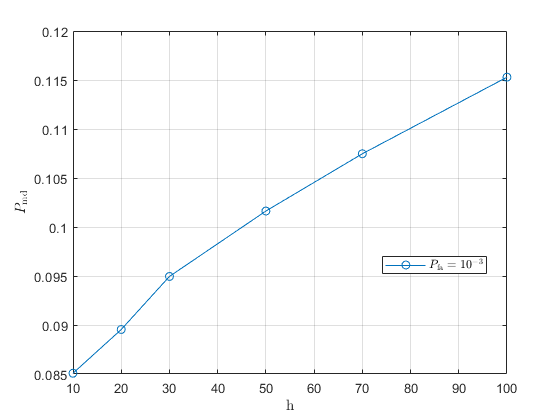
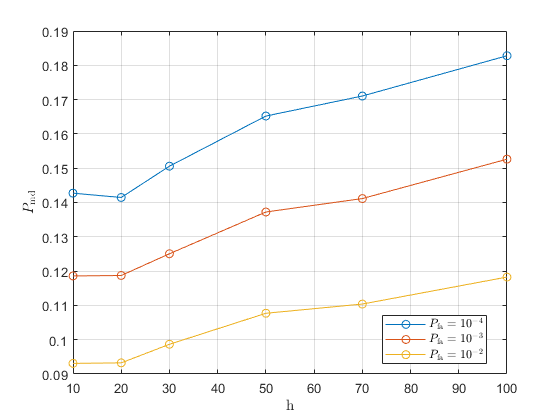
update

diff --git a/game_theory_paper/pmd_h.py b/game_theory_paper/pmd_h.py
@@ -213,10 +213,10 @@ n_ch_realization = 20
 p_fas = [1e-4,1e-3,1e-2] #np.ndarray.tolist(np.linspace(1e-3,1.3e-3,10)) #[1e-5,1.05e-5,1.1e-5,1.15e-5,1.2e-5,1.25e-5,1.3e-5]
 distances = [10,20,30,50,70,100]
 n_dist= len(distances)
-results_valgame = np.zeros((1,n_dist))
-results_risparmio = np.zeros((1,n_dist))
-results_dist_naive = np.zeros((1,n_dist))
-results_dist_opt = np.zeros((1,n_dist))
+results_valgame = np.zeros((3,n_dist))
+results_risparmio = np.zeros((3,n_dist))
+results_dist_naive = np.zeros((3,n_dist))
+results_dist_opt = np.zeros((3,n_dist))
 num_realizations = np.int32(2e5)
 tolerance = 1e-4
 strategy=True #true for one opt
@@ -256,10 +256,11 @@ for p_fa in p_fas:
                     x=varphi_prime*(ch[0][jj]/ch[0][ii])**2
                     p_md[ii,jj] = sp.stats.ncx2.cdf(x, 1, nc, loc=0, scale=1)
             p_md[p_md<tolerance]=0
-            val_game,mix_row = game_solver(p_md) #Single round
+            val_game,mix_row = game_solver(p_md)
+            val_games[0,kk-1]=val_game
         results_valgame[index_pfa,distance_index]=val_games.mean()
         filename = "results_pmd_h.mat"
-        dictionary = {"values_game":results_valgame,"p_fas:":p_fas}
+        dictionary = {"values_game":results_valgame,"p_fas":p_fas}
         sp.io.savemat(filename,dictionary) 
         print(distance_index) 
         distance_index=distance_index+1

diff --git a/game_theory_paper/pmd_pfa_rounds.py b/game_theory_paper/pmd_pfa_rounds.py
@@ -138,10 +138,10 @@ n_ch_realization = 20
 #p_fas = [1e-2]
 n_pfas = 20
 p_fas = np.ndarray.tolist(np.linspace(1e-3,1e-1,n_pfas))
-N = 2
+N = 1
 sigmas = [10,13,16]
 results_valgame = np.zeros((3,n_pfas))
-num_realizations = np.int32(4e5)
+num_realizations = np.int32(2e5)
 tolerance = 1e-5
 k=50
 distance =50
@@ -190,9 +190,10 @@ for sigma in sigmas:
         counter = counter +1
         print(str(counter/np.float16(results_valgame.size)*100))
         index_pfa=index_pfa+1
+        filename ="Results_pfa_pmd_round_"+str(N)+".mat"
+        dic = {"values_game_"+str(N):results_valgame,"p_fas":p_fas}
+        sp.io.savemat(filename, dic)
     index_sigma=index_sigma+1
-filename ="Results_pfa_pmd_round_"+str(N)+".mat"
-sp.io.savemat(filename, dict(values_game=results_valgame,p_fas = p_fas))
     # plotting
 """fig, ax = plt.subplots()
 

diff --git a/game_theory_paper/results/pmd_h.m b/game_theory_paper/results/pmd_h.m
@@ -1,0 +1,16 @@
+close all
+clear all
+load("./data/results_pmd_h.mat")
+p_fas = [1e-4,1e-3,1e-2]; %!!
+altezza = [10,20,30,50,70,100]; % !!
+
+figure
+set(gca,'TickLabelInterpreter','latex')
+plot(altezza,values_game(1,:),'-o')
+hold on
+plot(altezza,values_game(2,:),'-o')
+plot(altezza,values_game(3,:),'-o')
+grid on
+ylabel("$P_{\rm md}$",'interpreter','latex')
+xlabel('h','interpreter','latex')
+legend("$P_{\rm fa}=10^{-4}$","$P_{\rm fa}=10^{-3}$","$P_{\rm fa}=10^{-2}$",'interpreter','latex','Location','best')
